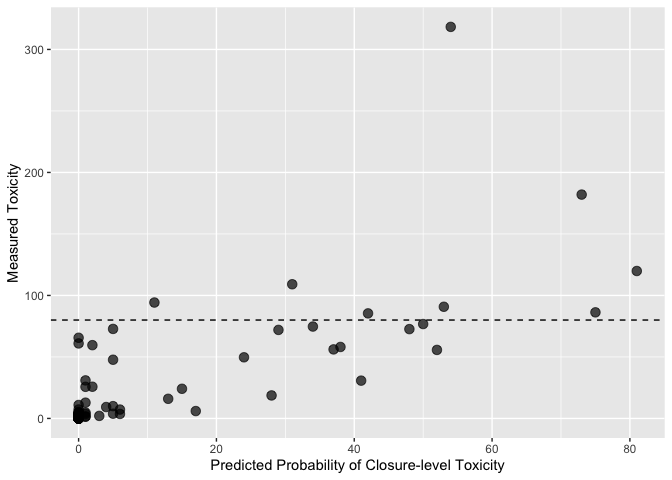
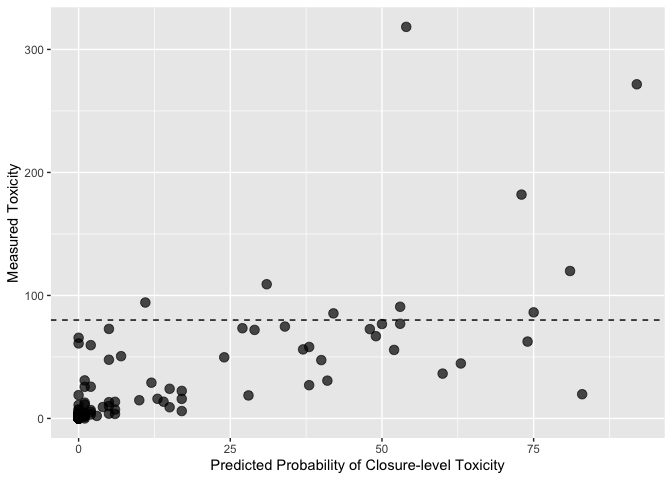
New predictions 3 June; updated readme results

diff --git a/README.md b/README.md
@@ -66,12 +66,12 @@ Shellfish toxicity forecast serving package
 -   predicted\_class - the predicted classification
 
 ``` r
-predictions <- pspforecast::read_forecast()
+predictions <- read_forecast()
 
 glimpse(predictions)
 ```
 
-    ## Rows: 104
+    ## Rows: 199
     ## Columns: 18
     ## $ version             <chr> "v0.1.3", "v0.1.3", "v0.1.3", "v0.1.3", "v0.1.3", …
     ## $ ensemble_n          <dbl> 10, 10, 10, 10, 10, 10, 10, 10, 10, 10, 10, 10, 10…
@@ -104,4 +104,4 @@ glimpse(predictions)
 
 ### Last Updated
 
-    ## [1] "2022-05-27"
+    ## [1] "2022-06-03"
